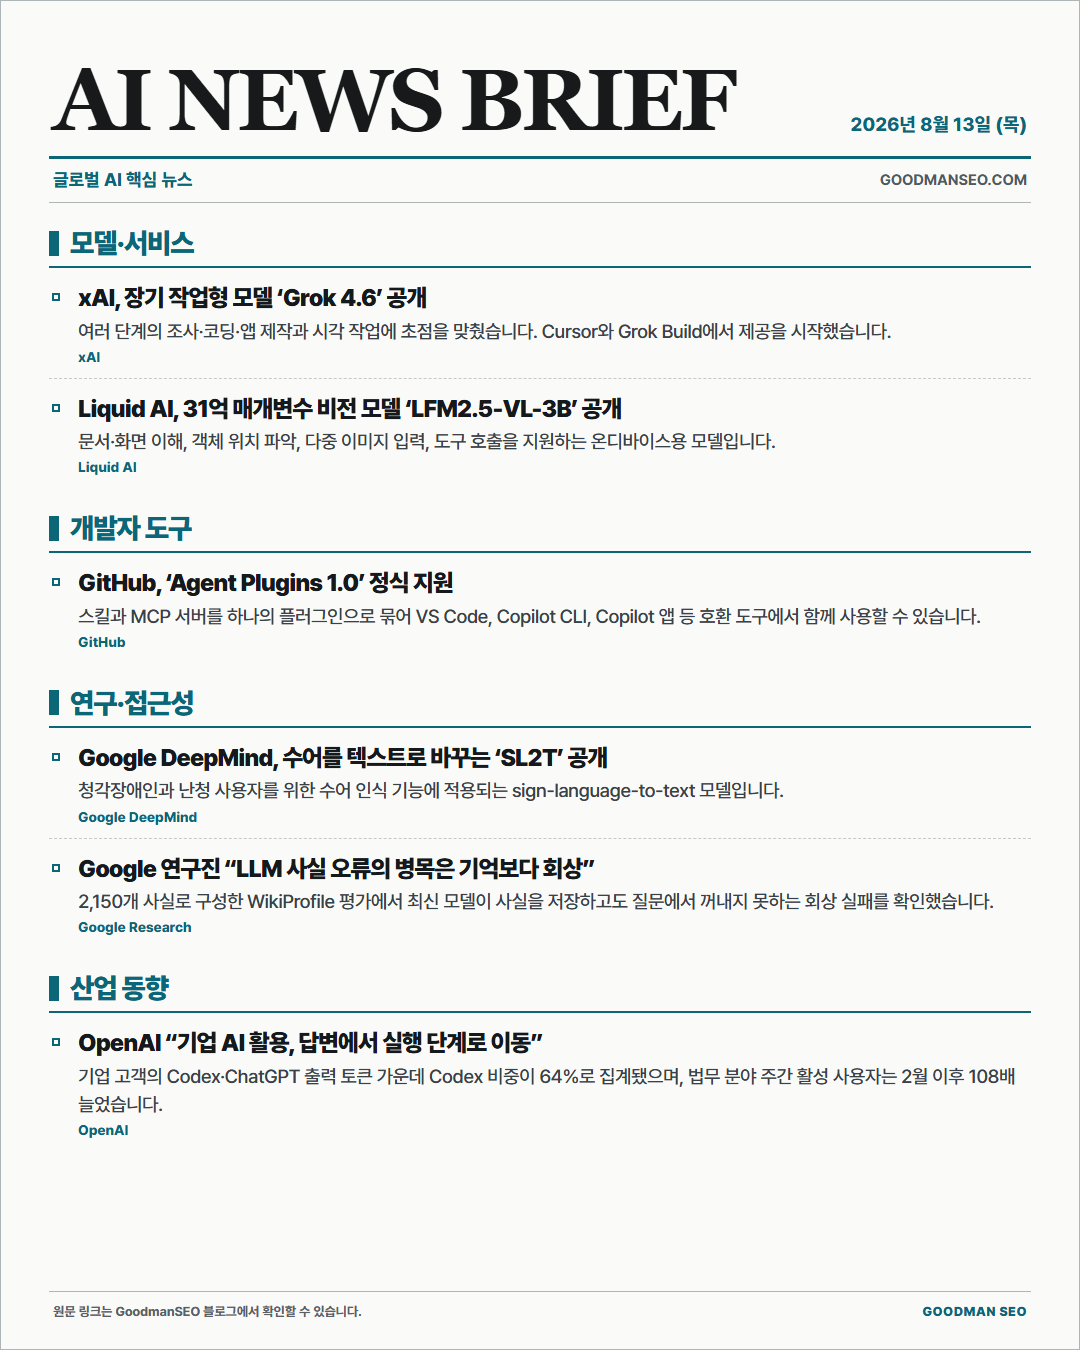
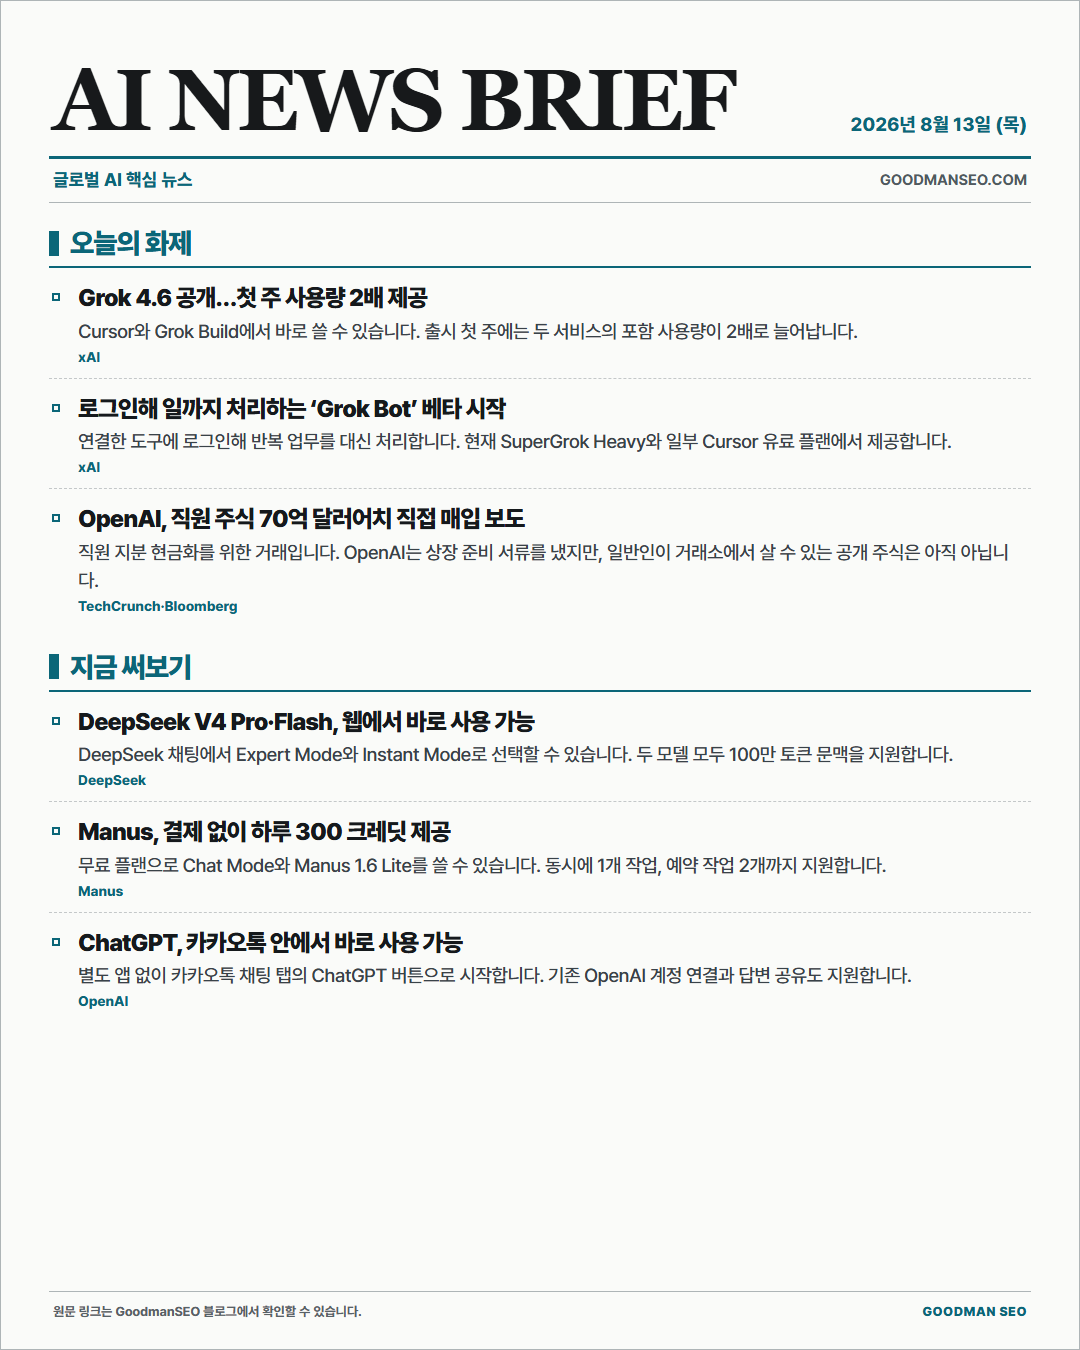
Refocus daily AI news on practical updates

Changed region(s): [[0.0306, 0.28, 0.9472, 0.84], [0.0611, 0.1556, 0.825, 0.2489]]

diff --git a/src/data/blogPosts.js b/src/data/blogPosts.js
@@ -5,78 +5,66 @@ export const blogPosts = [
     author: 'Goodman SEO',
     title: 'AI 키뉴스 브리프 | 2026년 8월 13일',
     excerpt:
-      'Grok 4.6, GitHub Agent Plugins 1.0, Google DeepMind 수어 AI 등 2026년 8월 13일 글로벌 AI 핵심뉴스 6건을 정리했습니다.',
+      'Grok 4.6 첫 주 2배 사용량, DeepSeek V4 Pro, Manus 무료 플랜, 카카오톡 ChatGPT 등 지금 알아둘 AI 소식 6건을 정리했습니다.',
     category: 'AI 키뉴스',
     kind: 'ai-key-news',
     image: '/blog/ai-keynews-2026-08-13.png',
     imageAlt:
-      '2026년 8월 13일 Grok 4.6, GitHub Agent Plugins, Google DeepMind 수어 AI 등 글로벌 AI 핵심뉴스 6건을 담은 AI NEWS BRIEF',
+      '2026년 8월 13일 Grok 4.6 첫 주 2배 사용량, DeepSeek V4 Pro, Manus 무료 플랜, 카카오톡 ChatGPT 등 실용 AI 키뉴스 6건을 담은 AI NEWS BRIEF',
     imageLayout: 'portrait',
-    keywords: ['AI 키뉴스', '오늘의 AI 뉴스', '글로벌 AI 뉴스', 'Grok 4.6', 'Agent Plugins 1.0'],
+    keywords: ['AI 키뉴스', '오늘의 AI 뉴스', 'Grok 4.6', 'DeepSeek V4 Pro', 'Manus 무료', '카카오톡 ChatGPT'],
     content: [
       {
         type: 'newsSection',
-        title: '모델·서비스',
+        title: '오늘의 화제',
         items: [
           {
-            headline: 'xAI, 장기 작업형 모델 ‘Grok 4.6’ 공개',
+            headline: 'Grok 4.6 공개…첫 주 사용량 2배 제공',
             summary:
-              '여러 단계의 조사·코딩·앱 제작과 시각 작업에 초점을 맞췄습니다. Cursor와 Grok Build에서 제공을 시작했습니다.',
+              'Cursor와 Grok Build에서 바로 쓸 수 있습니다. 출시 첫 주에는 두 서비스의 포함 사용량이 2배로 늘어납니다.',
             source: 'xAI',
             url: 'https://x.ai/news/grok-4-6',
           },
           {
-            headline: 'Liquid AI, 31억 매개변수 비전 모델 ‘LFM2.5-VL-3B’ 공개',
+            headline: '로그인해 일까지 처리하는 ‘Grok Bot’ 베타 시작',
             summary:
-              '문서·화면 이해, 객체 위치 파악, 다중 이미지 입력, 도구 호출을 지원하는 온디바이스용 모델입니다.',
-            source: 'Liquid AI',
-            url: 'https://huggingface.co/blog/LiquidAI/lfm2-5-vl-3b',
+              '연결한 도구에 로그인해 반복 업무를 대신 처리합니다. 현재 SuperGrok Heavy와 일부 Cursor 유료 플랜에서 제공합니다.',
+            source: 'xAI',
+            url: 'https://x.ai/bot',
+          },
+          {
+            headline: 'OpenAI, 직원 주식 70억 달러어치 직접 매입 보도',
+            summary:
+              '직원 지분 현금화를 위한 거래입니다. OpenAI는 상장 준비 서류를 냈지만, 일반인이 거래소에서 살 수 있는 공개 주식은 아직 아닙니다.',
+            source: 'TechCrunch·Bloomberg',
+            url: 'https://techcrunch.com/2026/08/10/openai-reportedly-completed-a-7-billion-employee-tender-offer/',
           },
         ],
       },
       {
         type: 'newsSection',
-        title: '개발자 도구',
+        title: '지금 써보기',
         items: [
           {
-            headline: 'GitHub, ‘Agent Plugins 1.0’ 정식 지원',
+            headline: 'DeepSeek V4 Pro·Flash, 웹에서 바로 사용 가능',
             summary:
-              '스킬과 MCP 서버를 하나의 플러그인으로 묶어 VS Code, Copilot CLI, Copilot 앱 등 호환 도구에서 함께 사용할 수 있습니다.',
-            source: 'GitHub',
-            url: 'https://github.blog/changelog/2026-08-12-agent-plugins-1-0-in-vs-code-copilot-cli-and-the-copilot-app',
-          },
-        ],
-      },
-      {
-        type: 'newsSection',
-        title: '연구·접근성',
-        items: [
-          {
-            headline: 'Google DeepMind, 수어를 텍스트로 바꾸는 ‘SL2T’ 공개',
-            summary:
-              '청각장애인과 난청 사용자를 위한 수어 인식 기능에 적용되는 sign-language-to-text 모델입니다.',
-            source: 'Google DeepMind',
-            url: 'https://deepmind.google/blog/putting-sign-language-ai-into-users-hands',
+              'DeepSeek 채팅에서 Expert Mode와 Instant Mode로 선택할 수 있습니다. 두 모델 모두 100만 토큰 문맥을 지원합니다.',
+            source: 'DeepSeek',
+            url: 'https://api-docs.deepseek.com/news/news260424/',
           },
           {
-            headline: 'Google 연구진 “LLM 사실 오류의 병목은 기억보다 회상”',
+            headline: 'Manus, 결제 없이 하루 300 크레딧 제공',
             summary:
-              '2,150개 사실로 구성한 WikiProfile 평가에서 최신 모델이 사실을 저장하고도 질문에서 꺼내지 못하는 회상 실패를 확인했습니다.',
-            source: 'Google Research',
-            url: 'https://research.google/blog/empty-shelves-or-lost-keys-recall-is-the-bottleneck-for-parametric-factuality',
+              '무료 플랜으로 Chat Mode와 Manus 1.6 Lite를 쓸 수 있습니다. 동시에 1개 작업, 예약 작업 2개까지 지원합니다.',
+            source: 'Manus',
+            url: 'https://help.manus.im/en/articles/11711111-what-is-the-current-membership-pricing-for-manus',
           },
-        ],
-      },
-      {
-        type: 'newsSection',
-        title: '산업 동향',
-        items: [
           {
-            headline: 'OpenAI “기업 AI 활용, 답변에서 실행 단계로 이동”',
+            headline: 'ChatGPT, 카카오톡 안에서 바로 사용 가능',
             summary:
-              '기업 고객의 Codex·ChatGPT 출력 토큰 가운데 Codex 비중이 64%로 집계됐으며, 법무 분야 주간 활성 사용자는 2월 이후 108배 늘었습니다.',
+              '별도 앱 없이 카카오톡 채팅 탭의 ChatGPT 버튼으로 시작합니다. 기존 OpenAI 계정 연결과 답변 공유도 지원합니다.',
             source: 'OpenAI',
-            url: 'https://openai.com/index/how-enterprises-put-ai-to-work/',
+            url: 'https://help.openai.com/ko-kr/articles/12677933-chatgpt-for-kakao-overview-and-kakao-tools',
           },
         ],
       },

diff --git a/docs/current-status.md b/docs/current-status.md
@@ -44,7 +44,7 @@ Treat those scores as report claims unless re-verified in the current thread.
 
 Additional work log:
 
-- 2026-08-13 daily AI key-news series: added `/blog/ai-keynews-2026-08-13/` with six official-source global AI items, a matching `1080x1350` share image, original-source links, a download button, static metadata, and sitemap registration. The deterministic image renderer is `scripts/generate-ai-keynews-image.mjs`; X and KakaoTalk posting remain manual and outside the site workflow. Targeted ESLint, Impeccable detection, production build, desktop visual review, and a 390px no-horizontal-overflow check passed. Live deployment still requires push and public verification.
+- 2026-08-13 daily AI key-news series: added `/blog/ai-keynews-2026-08-13/` with six practical, general-user AI items, a matching `1080x1350` share image, original-source links, a download button, static metadata, and sitemap registration. X is a discovery source; claims must be confirmed through company sources or reputable reporting. Prioritize launches people can try, free/price/usage changes, availability, major service changes, and broadly relevant company news. Avoid research papers, benchmark-only news, infrastructure detail, and enterprise statistics unless the user impact is clear. The deterministic image renderer is `scripts/generate-ai-keynews-image.mjs` and accepts 3–6 strong items so weak filler is unnecessary. X and KakaoTalk posting remain manual and outside the site workflow.
 - 2026-07-30 customer-temperature blog post: added `/blog/customer-temperature-before-sales-review/`, then refined it into structured summary cards, section headings, action rows, a review-request callout, and three generated blog images. The full article was also rewritten in a friendlier, contemporary Korean voice while preserving the original sales experience and Cold/Warm/Hot framework. Static build and targeted ESLint checks passed.
 - 2026-07-13 English homepage rollout: added `/en` and `/en/contact` while preserving the existing homepage structure and navy/off-white design system. Shared navigation, footer, enquiry form, language switcher, document language, canonical, `hreflang`, static route generation, and sitemap entries now support Korean and English. Targeted ESLint, Impeccable detect, production build, and Playwright desktop/mobile checks passed.
 - `docs/homepage-redesign-2026-07-04.md`: records the July 4 homepage redesign work log, including reference-image direction, hero woman image, dark navy section system, compact typography, footer/nav/logo changes, removed score CTA section, and validation notes.

diff --git a/wiki/log.md b/wiki/log.md
@@ -1,6 +1,6 @@
 # Wiki Log
 
-- 2026-08-13: Added the daily global AI key-news content workflow. The first dated brief uses six verified original sources, one matching `1080x1350` newsprint-style PNG, source links, a site download button, static metadata, and sitemap coverage. External X and KakaoTalk posting remain manual.
+- 2026-08-13: Refocused the daily AI key-news workflow on practical general-user interest: things people can try now, free/price/usage changes, availability, major service changes, and broadly relevant company news. X is used for discovery and claims are verified separately; technical filler is excluded and 3–6 strong items are allowed. External X and KakaoTalk posting remain manual.
 
 - 2026-07-19: Aligned the AI Business Report across pricing, report samples, contact copy, navigation, footer, and the Korean homepage. Added `/en/ai-report` and connected it from the English homepage, navigation, footer, enquiry flow, static generation, and sitemap. Public pricing is now `AUD 249` launch price against `AUD 349` standard price.
 
